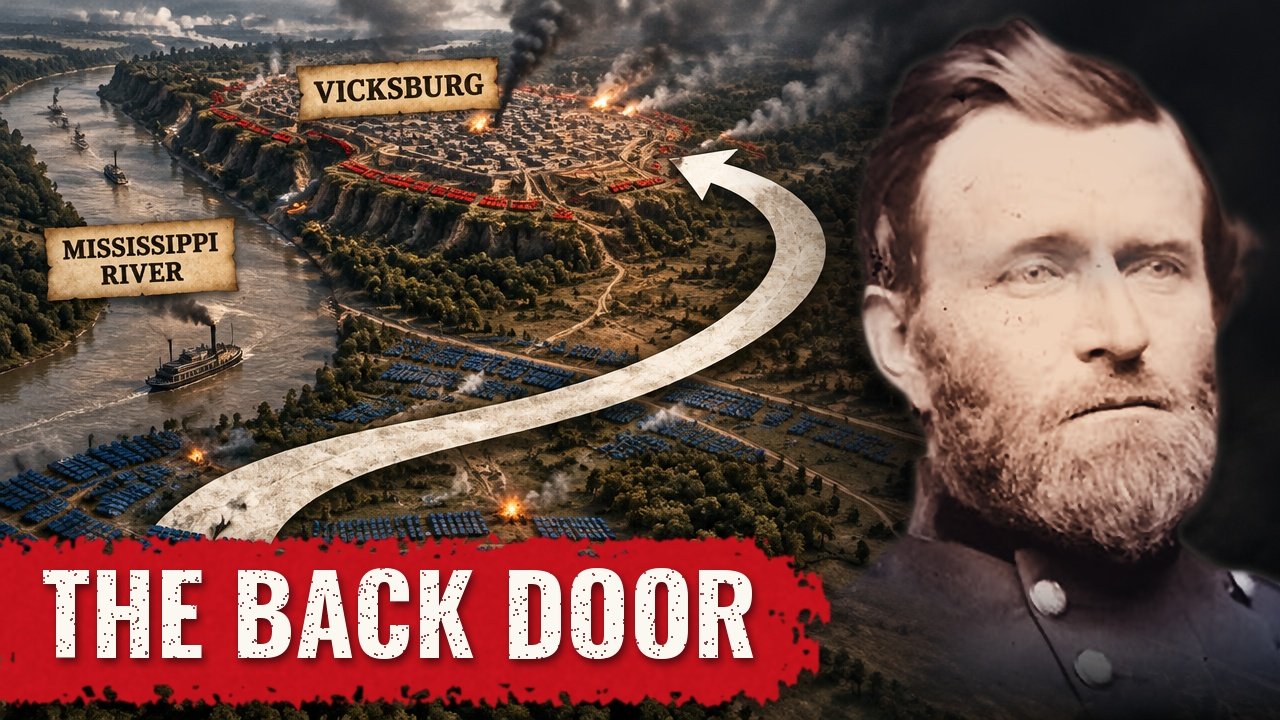
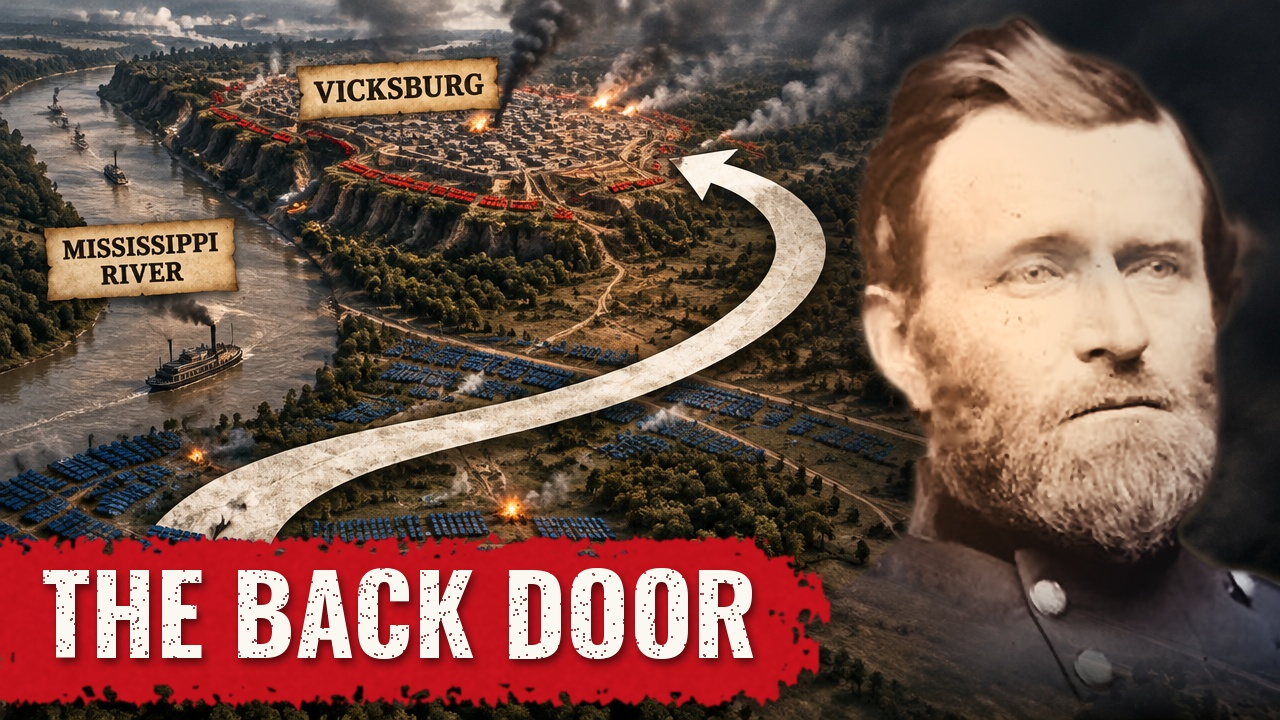
Grant thumbnails X1/X3 after two critics: face cleaned + graded, no dark block; FACT_NOTES rows; X2 dropped
Claude-Session: https://claude.ai/code/session_011uJnj9GEoo2Y1w3KGioPhy

diff --git a/grant/tools/make_thumb_X.py b/grant/tools/make_thumb_X.py
@@ -5,15 +5,30 @@ W, H = 1280, 720
 bg = Image.open('bg_usual.png').convert('RGB').resize((W, H), Image.LANCZOS)
 # darken right third further for the portrait
 g = Image.new('L', (W, H), 0); gd = ImageDraw.Draw(g)
-for x in range(W): gd.line([(x, 0), (x, H)], fill=int(min(170, max(0, (x - 720) * 0.45))))
+for x in range(W): gd.line([(x, 0), (x, H)], fill=int(min(70, max(0, (x - 760) * 0.18))))
 bg = Image.composite(Image.new('RGB', (W, H), (12, 12, 14)), bg, g)
 # ---- real Brady portrait, natural colourisation, face pop, cool rim
 cut = Image.open('cut.png').convert('RGBA'); sc = 1.95
 cut = cut.resize((int(cut.width * sc), int(cut.height * sc)), Image.LANCZOS)
 gr = np.array(cut.convert('L')).astype(np.float32) / 255
-gr = cv2.bilateralFilter(gr, 5, 0.08, 4)                      # soften scan specks
+g8 = (gr * 255).astype(np.uint8)
+bh = cv2.morphologyEx(g8, cv2.MORPH_BLACKHAT, cv2.getStructuringElement(cv2.MORPH_ELLIPSE, (7, 7)))
+th_ = cv2.morphologyEx(g8, cv2.MORPH_TOPHAT, cv2.getStructuringElement(cv2.MORPH_ELLIPSE, (7, 7)))
+Hh0, Ww0 = g8.shape; yy0, xx0 = np.mgrid[0:Hh0, 0:Ww0]
+X, Y = xx0 / sc, yy0 / sc                                      # source coords
+fore = (Y > 228) & (Y < 300) & (X > 255) & (X < 420)            # forehead above the brows
+cheek = (Y >= 300) & (Y < 420) & (((X > 225) & (X < 290)) | ((X > 395) & (X < 445)))   # outer cheeks / temple / ear, not eyes, nose, mouth
+spk = (((bh > 34) | (th_ > 40)) & (fore | cheek)).astype(np.uint8)
+n_, lab_, st_, _ = cv2.connectedComponentsWithStats(spk)
+keep = np.zeros_like(spk)
+for i in range(1, n_):
+    if st_[i, 4] < 90 * sc * sc: keep[lab_ == i] = 255
+spk = cv2.dilate(keep, np.ones((3, 3), np.uint8))
+g8 = cv2.inpaint(g8, spk, 6, cv2.INPAINT_TELEA)
+gr = g8.astype(np.float32) / 255
+gr = cv2.bilateralFilter(gr, 5, 0.08, 4)
 gr = np.clip((gr - 0.08) / 0.82, 0, 1) ** 1.12                  # highlights down, contrast up
-lut_s = np.array([[20, 12, 12], [112, 64, 46], [196, 140, 112], [240, 210, 186]], np.float32)  # natural skin, auburn beard
+lut_s = np.array([[20, 14, 12], [108, 70, 48], [190, 146, 112], [236, 214, 188]], np.float32)  # natural skin, auburn beard
 lut_c = np.array([[6, 10, 20], [26, 40, 72], [70, 90, 132], [170, 186, 210]], np.float32)       # dark blue coat
 def gm(x, lut):
     y = x * 3; i = np.clip(y.astype(int), 0, 2); f = (y - i)[..., None]; return lut[i] * (1 - f) + lut[i + 1] * f
@@ -23,6 +38,8 @@ fm = cv2.GaussianBlur(fm, (0, 0), 14)[..., None]
 col = gm(gr, lut_s) * fm + gm(gr, lut_c) * (1 - fm)
 eyes = np.exp(-(((xx - 340 * sc) / (60 * sc)) ** 2 + ((yy - 325 * sc) / (12 * sc)) ** 2))[..., None]   # blue-grey eyes hint
 col = col * (1 - 0.25 * eyes) + np.array([120, 140, 160]) * 0.25 * eyes
+kl = np.exp(-(((xx - 250 * sc) / (90 * sc)) ** 2 + ((yy - 330 * sc) / (170 * sc)) ** 2))[..., None]
+col = col + kl * np.array([40, 18, 0])
 por = ImageEnhance.Sharpness(Image.fromarray(np.clip(col, 0, 255).astype(np.uint8))).enhance(1.5)
 alpha = cut.getchannel('A').filter(ImageFilter.MinFilter(5)).filter(ImageFilter.GaussianBlur(1.2))
 cutoff = int(560 * sc); fade = Image.new('L', cut.size, 255); fd = ImageDraw.Draw(fade)
@@ -32,9 +49,9 @@ sm_ = Image.new('L', cut.size, 255); ImageDraw.Draw(sm_).rectangle([int(100 * sc
 alpha = ImageChops.multiply(alpha, sm_.filter(ImageFilter.GaussianBlur(int(22 * sc))))
 ox, oy = int(1060 - 335 * sc), int(18 - 200 * sc)
 canvas = bg.convert('RGBA')
-sh = Image.new('RGBA', cut.size, (0, 0, 0, 0)); sh.putalpha(alpha.filter(ImageFilter.GaussianBlur(18)).point(lambda v: int(v * 0.75)))
+sh = Image.new('RGBA', cut.size, (0, 0, 0, 0)); sh.putalpha(alpha.filter(ImageFilter.GaussianBlur(18)).point(lambda v: int(v * 0.35)))
 canvas.alpha_composite(sh, (ox - 16, oy + 10))
-rim = Image.new('RGBA', cut.size, (255, 236, 205, 0)); rim.putalpha(ImageChops.subtract(alpha.filter(ImageFilter.MaxFilter(5)), alpha).filter(ImageFilter.GaussianBlur(3)).point(lambda v: int(v * 0.35)))
+rim = Image.new('RGBA', cut.size, (255, 196, 130, 0)); rim.putalpha(ImageChops.subtract(alpha.filter(ImageFilter.MaxFilter(5)), alpha).filter(ImageFilter.GaussianBlur(3)).point(lambda v: int(v * 0.5)))
 canvas.alpha_composite(rim, (ox, oy))
 pa = por.convert('RGBA'); pa.putalpha(alpha); canvas.alpha_composite(pa, (ox, oy))
 base = canvas.convert('RGB')
@@ -70,10 +87,10 @@ def distressed_text(img, txt, box, size, seed):
     wl = Image.new('RGBA', (W, H), (250, 248, 240, 0)); wl.putalpha(Image.fromarray(Larr))
     sl = Image.new('RGBA', (W, H), (0, 0, 0, 0)); sl.putalpha(L.filter(ImageFilter.GaussianBlur(4)).point(lambda v: int(v * 0.55)))
     img.alpha_composite(sl, (3, 5)); img.alpha_composite(wl); return img
-for name, txt in [('X1', 'THE BACK DOOR'), ('X2', '29,500 SURRENDERED'), ('X3', 'NO WAY IN?')]:
+for name, txt in [('X1', 'THE BACK DOOR'), ('X3', 'NO WAY IN?')]:
     c = brush_banner(base, 0, 540, 800, 688, 11)
     c = distressed_text(c, txt, (10, 540, 790, 688), 132, 4)
     c.convert('RGB').save(f'{name}.jpg', quality=95)
-s = Image.new('RGB', (W, H * 3 + 20), (25, 25, 25))
-for i, n in enumerate(['X1', 'X2', 'X3']): s.paste(Image.open(n + '.jpg'), (0, i * (H + 10)))
-s.resize((640, (H * 3 + 20) // 2)).save('sheet_X.jpg'); print('ok')
+s = Image.new('RGB', (W, H * 2 + 10), (25, 25, 25))
+for i, n in enumerate(['X1', 'X3']): s.paste(Image.open(n + '.jpg'), (0, i * (H + 10)))
+s.resize((640, (H * 2 + 10) // 2)).save('sheet_X.jpg'); print('ok')

diff --git a/grant/research/FACT_NOTES.md b/grant/research/FACT_NOTES.md
@@ -60,3 +60,5 @@ Carondelet kuh-RON-duh-let (verified), Buckner BUK-nur (verified), Chickahominy 
 | Thumbnail portrait = AI-generated generic Union general (not a photo of Grant, no insignia) | all thumbnails | checked by eye: no stars, face in frame | |
 | "The Man Who Won the Civil War" (title, 2026-11-04, vidIQ 93) | Title | Historian's judgement, widely held: Grant was general-in-chief of all Union armies from March 1864 to Lee's surrender at Appomattox (9 Apr 1865); not a literal single-handed claim | Memoirs; Chernow, White; NPS |
 | Thumbnail D "CUT LOOSE" (vidIQ Vicksburg aerial, real Brady portrait LC public domain) | Thumbnail | TRUE as Grant's own words ("cut loose from my base"); AI flag-like Confederate markers painted out to plain red blocks | FACTCHECK_B #14, #25 |
+| Thumbnail X1 "THE BACK DOOR" (vidIQ Vicksburg aerial, real Brady portrait LC public domain) | Main thumbnail candidate | TRUE as a metaphor for the approach: after the canal, Yazoo Pass, Steele's Bayou and Chickasaw Bayou attempts failed, Grant crossed below the city and came at it from the land side (east), aiming to "destroy the rebel force in rear of Vicksburg"; the city then fell to siege (4 Jul), not to a storm | FACTCHECK_B #14; script m2-1..m2-11 |
+| Thumbnail X3 "NO WAY IN?" (same image) | Test & Compare | TRUE as a question: the winter approaches by water all failed (script m2-1/m2-2) | FACTCHECK_B; script m2-2 |
